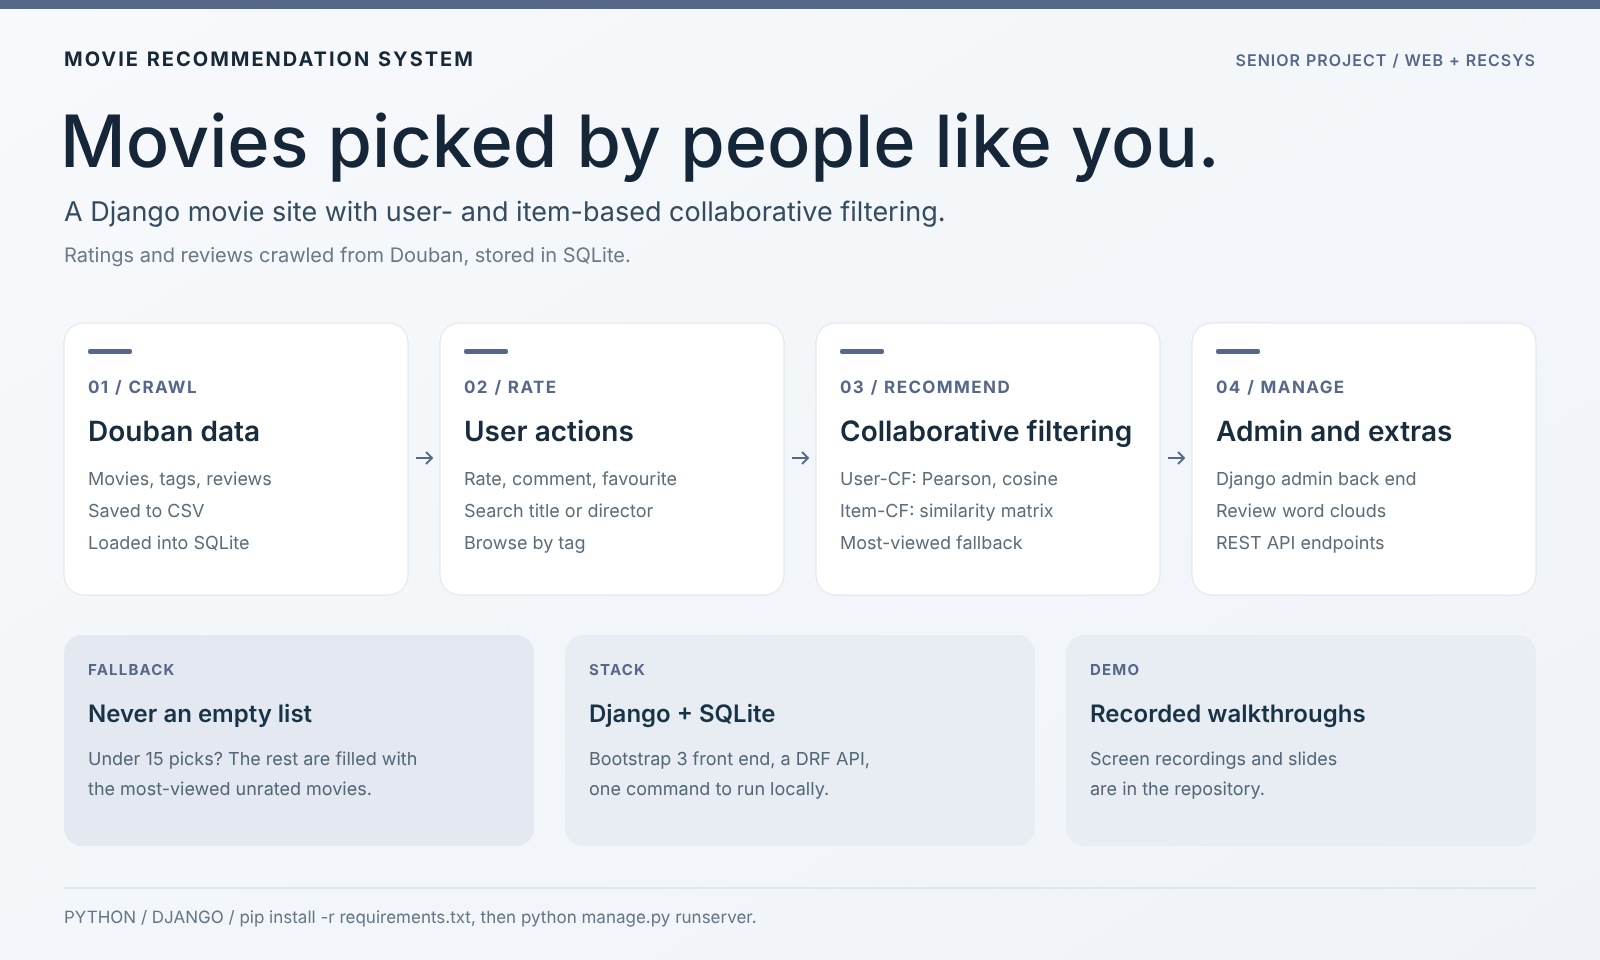
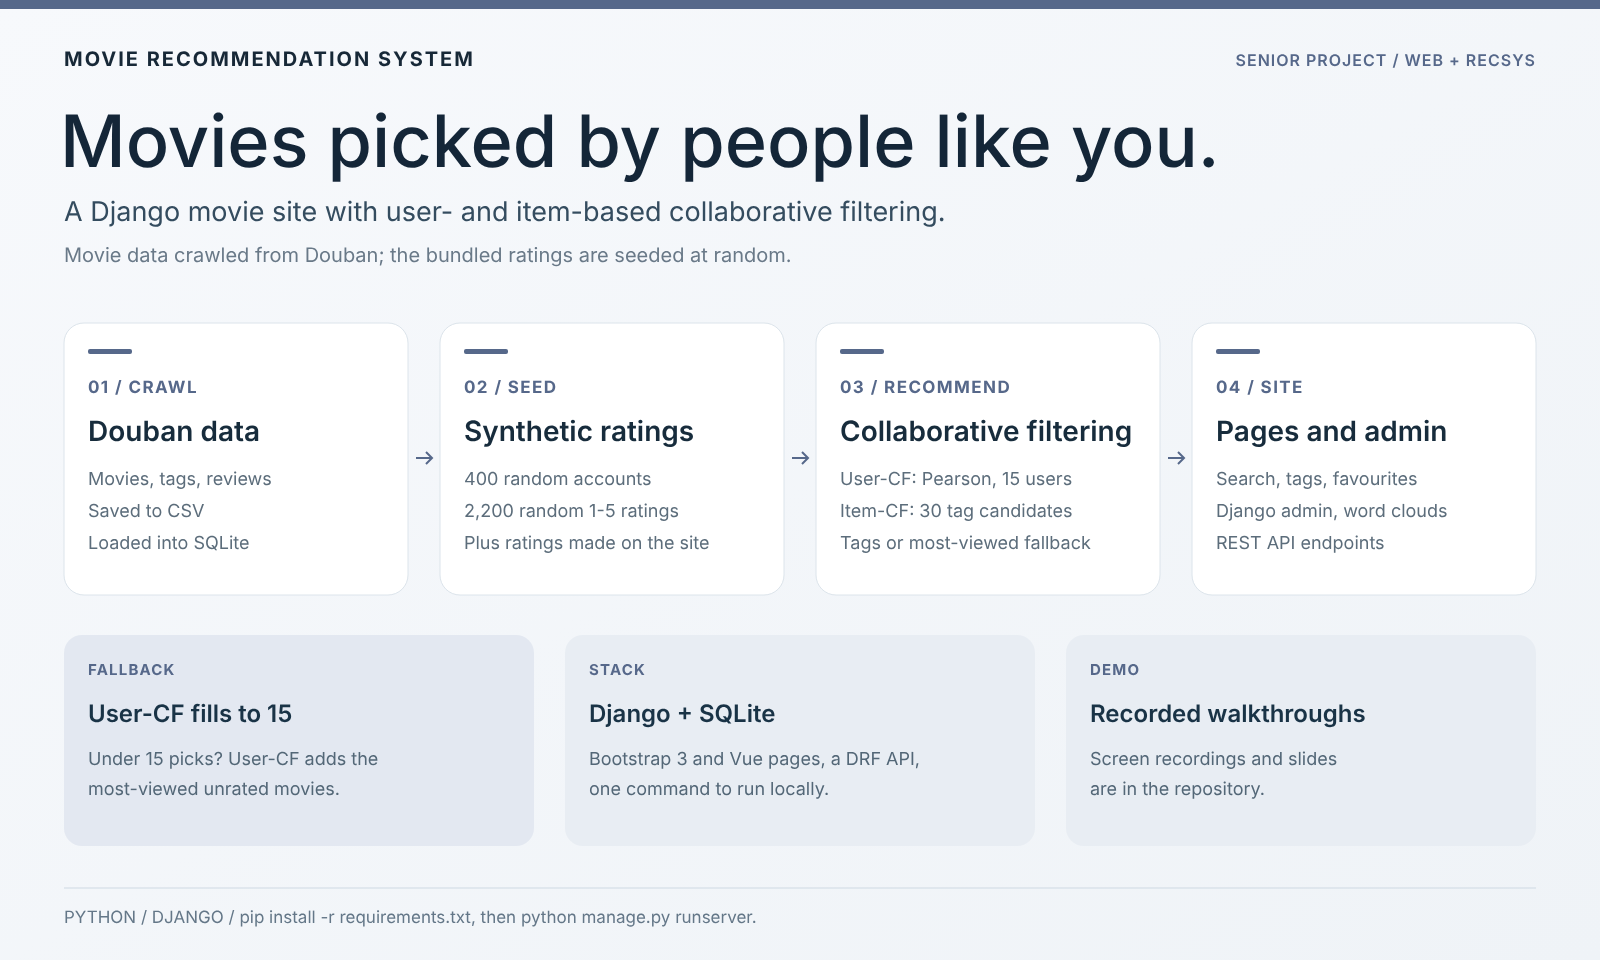
docs: describe what the code does

diff --git a/README.zh-CN.md b/README.zh-CN.md
@@ -10,7 +10,7 @@
 ![database](https://img.shields.io/badge/database-SQLite-003B57?logo=sqlite&logoColor=white)
 [![homepage](https://img.shields.io/badge/homepage-ccao2679.com-555555)](https://www.ccao2679.com/projects/#movie-recommendation-system)
 
-<img src="docs/figures/overview.png" alt="项目概览海报：爬取豆瓣数据、评分与搜索、基于用户和基于物品的协同过滤、后台管理与词云" width="100%">
+<img src="docs/figures/overview.png" alt="项目概览海报：爬取豆瓣数据、随机生成评分、基于用户和基于物品的协同过滤、网站与后台" width="100%">
 
 </div>
 
@@ -30,9 +30,9 @@
 
 ## 亮点
 
-- **推荐：** 基于用户的协同过滤（用户之间的 Pearson 相关系数或余弦相似度）与基于物品的协同过滤（物品相似度矩阵），并以浏览量最高的电影兜底，保证每位用户至少拿到 15 条推荐。
+- **推荐：** 基于用户的协同过滤（Pearson 相关系数，取最相似的 15 个用户；找到的电影不足 15 部时，用该用户未评分、浏览量最高的电影补齐）与基于物品的协同过滤（每次请求时从用户最偏好的 3 个标签中随机抽取 30 部未评分电影，现场计算共同评分相似度）。没有评分的用户会拿到所选标签下的电影或浏览量最高的电影。
 - **网站：** 注册与登录，按片名、导演或简介搜索，按标签浏览，评分、评论和收藏；用 Django admin 做后台管理；根据影评生成词云。
-- **数据：** 从豆瓣爬取电影、标签和影评，存成 CSV 后导入 SQLite。
+- **数据：** 电影信息、标签和影评从豆瓣爬取，存成 CSV 后导入 SQLite。仓库自带的 `db.sqlite3` 中的评分是随机生成的：`populate_user_rate.py` 创建了 400 个随机账户，共 2,200 条 1–5 分的随机评分（合计 401 个用户、2,201 条评分）。
 
 ## 架构
 
@@ -78,12 +78,20 @@ python manage.py createsuperuser  # optional, for the admin back end
 | 路径 | 用途 |
 |---|---|
 | `recommend_movies.py` | 协同过滤：`recommend_by_user_id`（user-CF）、`recommend_by_item_id`（item-CF） |
-| `movie/`, `user/` | 电影和账户相关的 Django 应用 |
+| `movie/` | Django 项目包：配置、URL 路由、WSGI |
+| `user/` | 主 Django 应用：数据模型（`Movie`、`Rate`、`Tags` 等）、页面视图和模板 |
 | `api/` | REST API（Django REST framework） |
 | `crawler/` | 豆瓣爬虫与图片下载 |
 | `comment/`, `csv_data/`, `populate_data/` | 爬取的影评与数据导入脚本 |
 | `genrate_cloud.py` | 影评词云 |
 | `docs/` | 毕业设计答辩幻灯片与操作录屏 |
+
+## 已知局限
+
+- item-CF 不会补齐到 15 部；用户偏好标签下未评分的电影不多时，返回的推荐会少于 15 部。
+- item-CF 只用一部已评分电影（查询返回的第一部）给每个候选打分：`recommend_by_item_id` 中的 `names` 判断会跳过其余已评分电影。
+- `api/views.py` 用同一个键（`USER_CACHE`）缓存 user-CF 和 item-CF 的结果，因此 5 分钟内可能把一种列表当作另一种返回。
+- `ItemBasedCF` 相似度矩阵（`item_rec.pkl`）在 `runserver` 启动时重建、每次评分后更新，但没有任何接口用它生成推荐。
 
 <details>
 <summary>原始文档（中文）</summary>

diff --git a/README.md b/README.md
@@ -10,7 +10,7 @@
 ![database](https://img.shields.io/badge/database-SQLite-003B57?logo=sqlite&logoColor=white)
 [![homepage](https://img.shields.io/badge/homepage-ccao2679.com-555555)](https://www.ccao2679.com/projects/#movie-recommendation-system)
 
-<img src="docs/figures/overview.png" alt="Overview poster: crawl Douban data, rate and search, user- and item-based collaborative filtering, admin and word clouds" width="100%">
+<img src="docs/figures/overview.png" alt="Overview poster: crawl Douban data, seed random ratings, user- and item-based collaborative filtering, site and admin" width="100%">
 
 </div>
 
@@ -30,9 +30,9 @@
 
 ## Highlights
 
-- **Recommendations:** user-based CF (Pearson or cosine similarity between users) and item-based CF (an item similarity matrix), with a most-viewed fallback so a user never gets fewer than 15 picks.
+- **Recommendations:** user-based CF (Pearson correlation, 15 nearest users; when it finds fewer than 15 movies it tops up with the most-viewed unrated ones) and item-based CF (co-rating similarity computed per request for 30 random unrated movies from the user's three top tags). Users with no ratings get movies from their chosen tags or the most-viewed list.
 - **Site:** sign-up and login, search by title, director or description, browse by tag, rate, comment and save favourites; Django admin for management; word clouds from reviews.
-- **Data:** movies, tags and reviews crawled from Douban into CSV and loaded into SQLite.
+- **Data:** movie details, tags and reviews crawled from Douban into CSV and loaded into SQLite. The ratings in the bundled `db.sqlite3` are synthetic: `populate_user_rate.py` created 400 random accounts with 2,200 random 1–5 ratings (2,201 ratings from 401 users in total).
 
 ## Architecture
 
@@ -78,12 +78,20 @@ python manage.py createsuperuser  # optional, for the admin back end
 | Path | Purpose |
 |---|---|
 | `recommend_movies.py` | Collaborative filtering: `recommend_by_user_id` (user-CF), `recommend_by_item_id` (item-CF) |
-| `movie/`, `user/` | Django apps for movies and accounts |
+| `movie/` | Django project package: settings, URL routing, WSGI |
+| `user/` | Main Django app: models (`Movie`, `Rate`, `Tags`, …), page views and templates |
 | `api/` | REST API (Django REST framework) |
 | `crawler/` | Douban crawler and image download |
 | `comment/`, `csv_data/`, `populate_data/` | Crawled reviews and data loaders |
 | `genrate_cloud.py` | Review word clouds |
 | `docs/` | Senior-project slides and recorded walkthroughs |
+
+## Known limitations
+
+- Item-CF does not top up to 15 picks, so it returns fewer when the user's top tags have few unrated movies.
+- Item-CF scores each candidate against a single rated movie (the first one returned): the `names` check in `recommend_by_item_id` skips the others.
+- `api/views.py` caches the user-CF and item-CF lists under the same key (`USER_CACHE`), so for 5 minutes one list can be served in place of the other.
+- The `ItemBasedCF` similarity matrix (`item_rec.pkl`) is rebuilt when `runserver` starts and updated after each rating, but no endpoint uses it to serve recommendations.
 
 <details>
 <summary>原始文档（中文）</summary>
